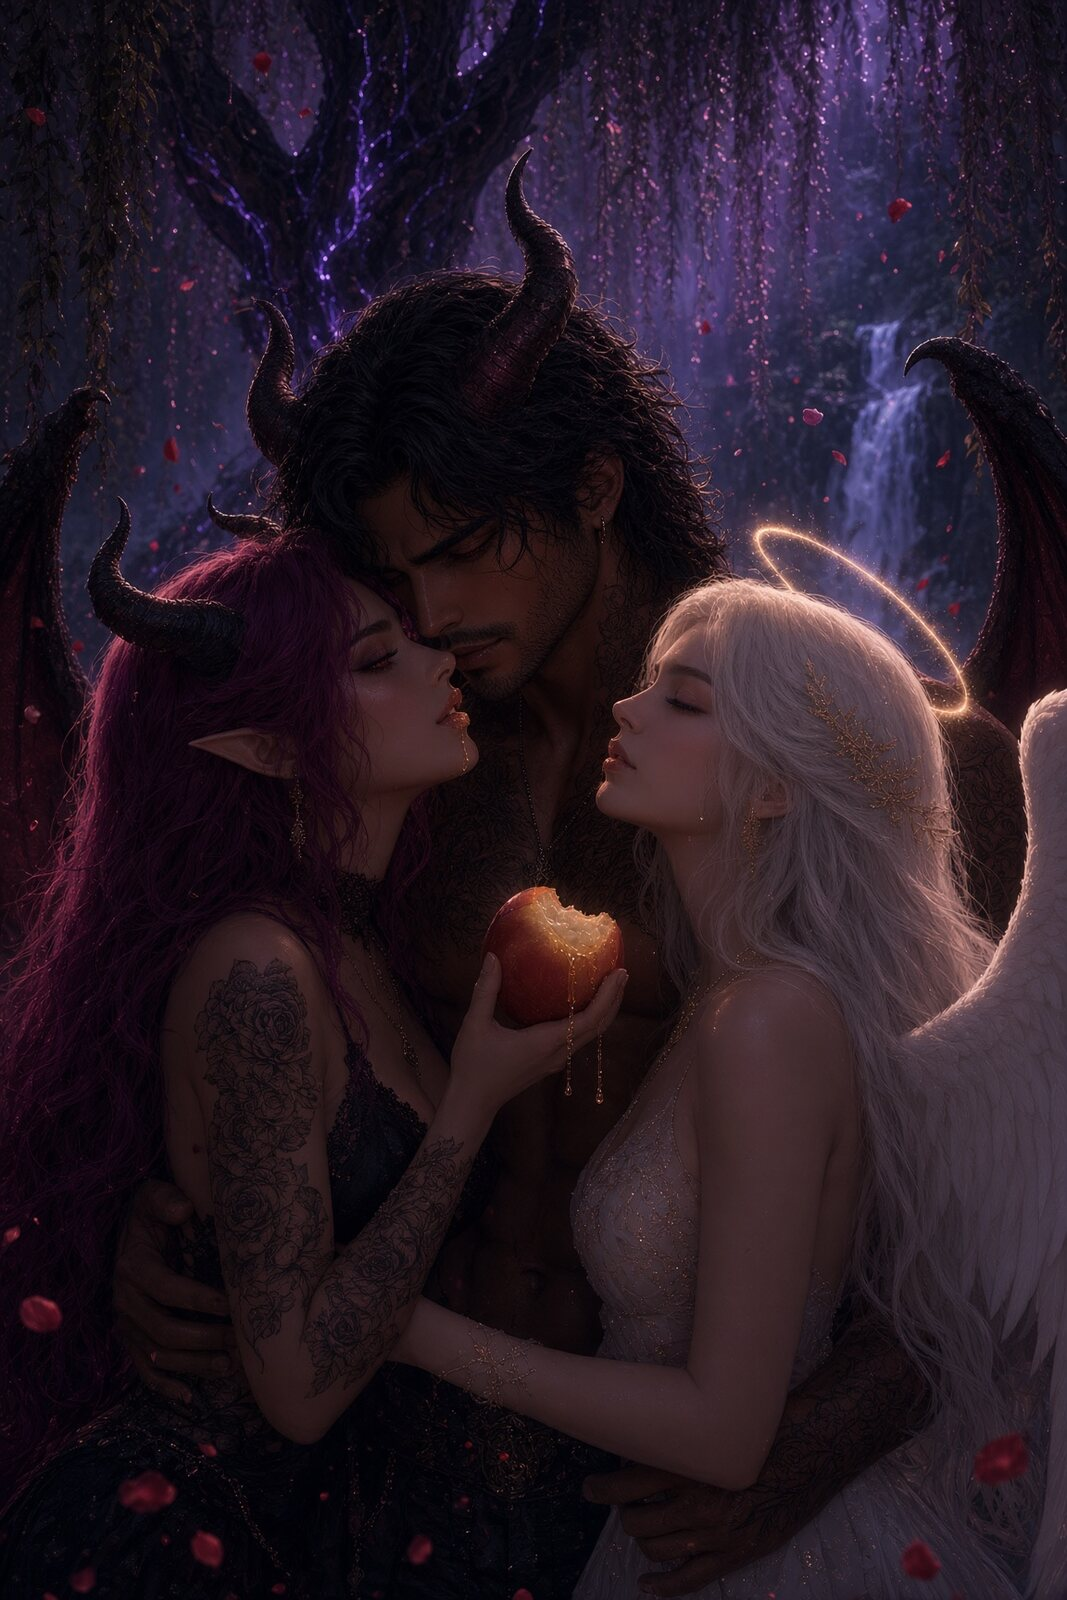
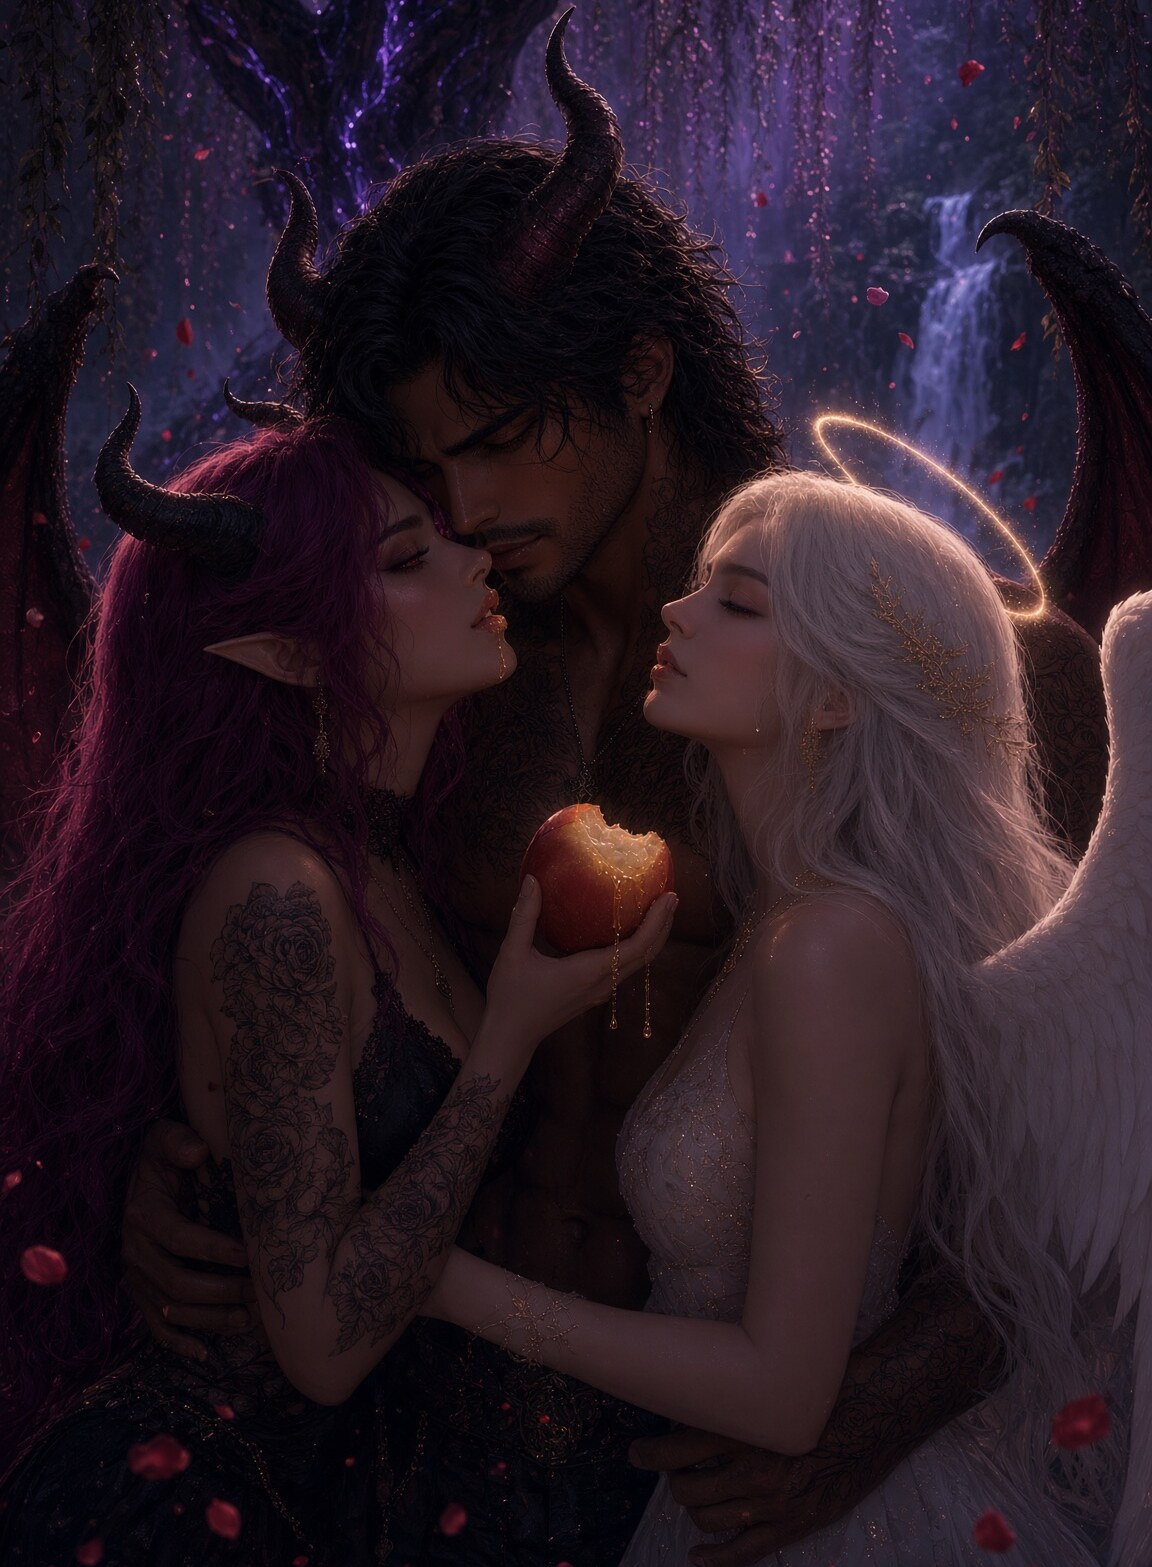
Replace Chapter V plate
Use the new Three Mouths image from the Desktop original, kept at full portrait size.

diff --git a/part1/chapter-05.html b/part1/chapter-05.html
@@ -22,7 +22,7 @@
   <div class="bound">
     <main class="spread">
       <figure class="leaf-art">
-        <img src="../images/part1/ch05.jpg" alt="Three Mouths" />
+        <img src="../images/part1/ch05.jpg?v=2" alt="Three Mouths" />
       </figure>
       <article class="leaf-text">
         <p class="roman">Chapter V</p>
